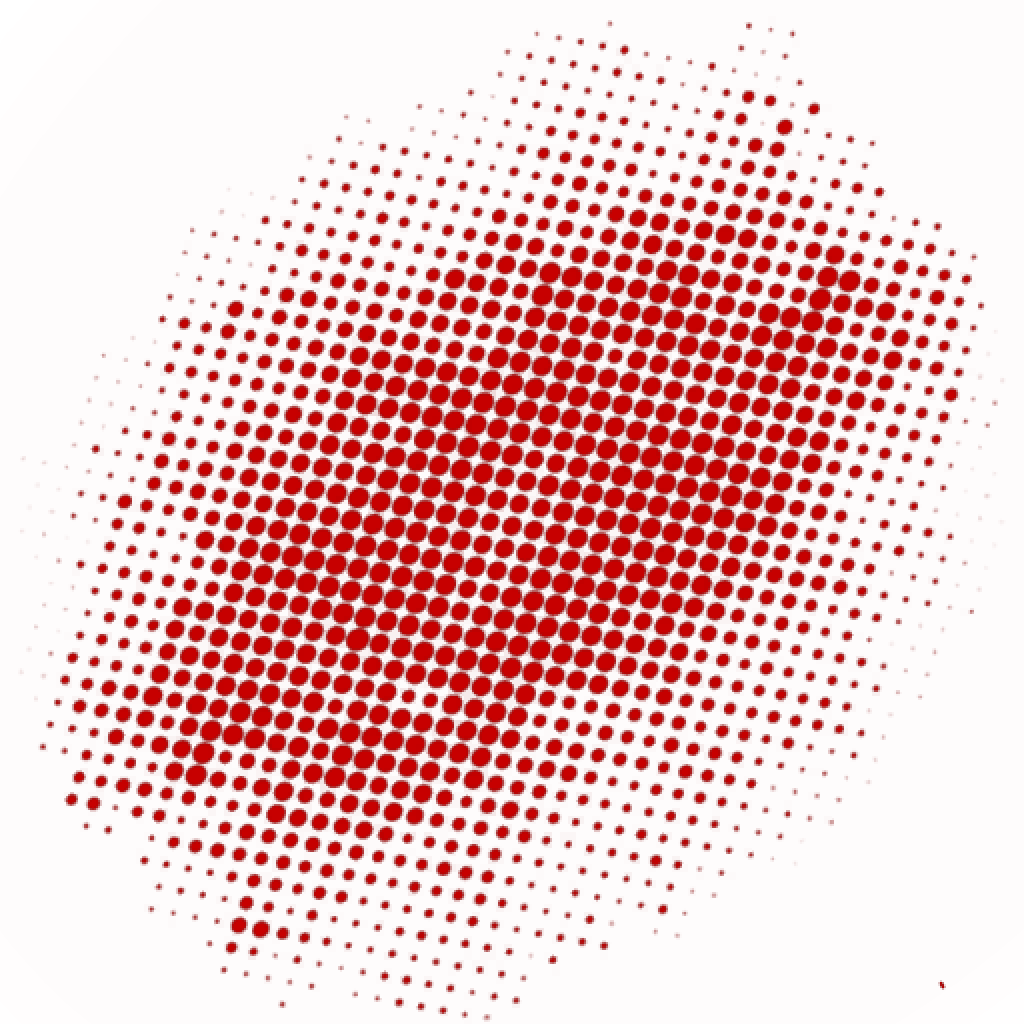
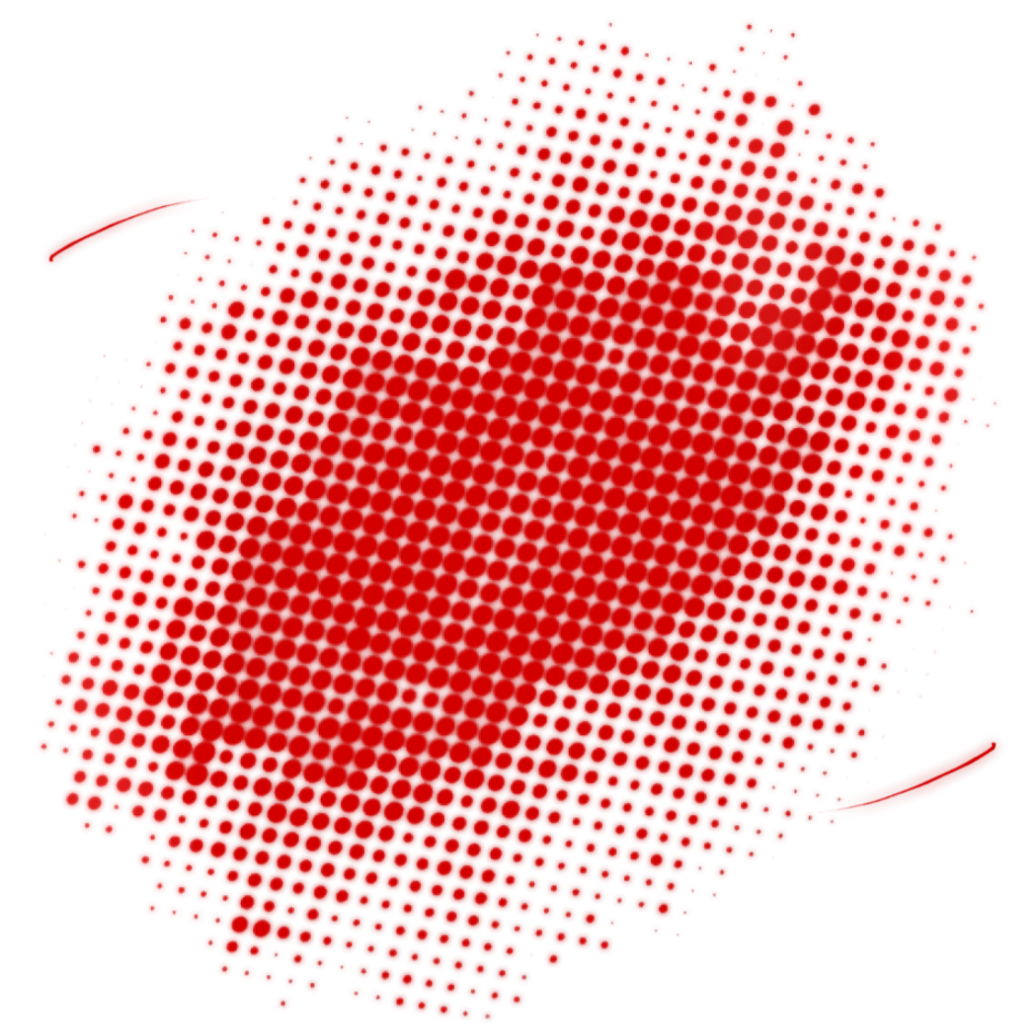
added flares

diff --git a/CustomMarvelSnap/CardMaker/script.js b/CustomMarvelSnap/CardMaker/script.js
@@ -371,7 +371,8 @@ const effectDir = '../res/img/effects/';
 const effectCategories = { 'krackle': 'Krackle', 'tone': 'Tone' };
 const effects = {
     'krackle': ['black', 'blue', 'gold', 'green', 'purple', 'rainbow', 'red', 'white'],
-    'tone': ['black', 'blue', 'gold', 'green', 'purple', 'rainbow', 'red', 'white']
+    'tone': ['black', 'blue', 'gold', 'green', 'purple', 'rainbow', 'red', 'white'],
+    'glimmer': ['black', 'blue', 'gold', 'green', 'purple', 'rainbow', 'red', 'white']
 };
 
 for (const category in effectCategories) {
